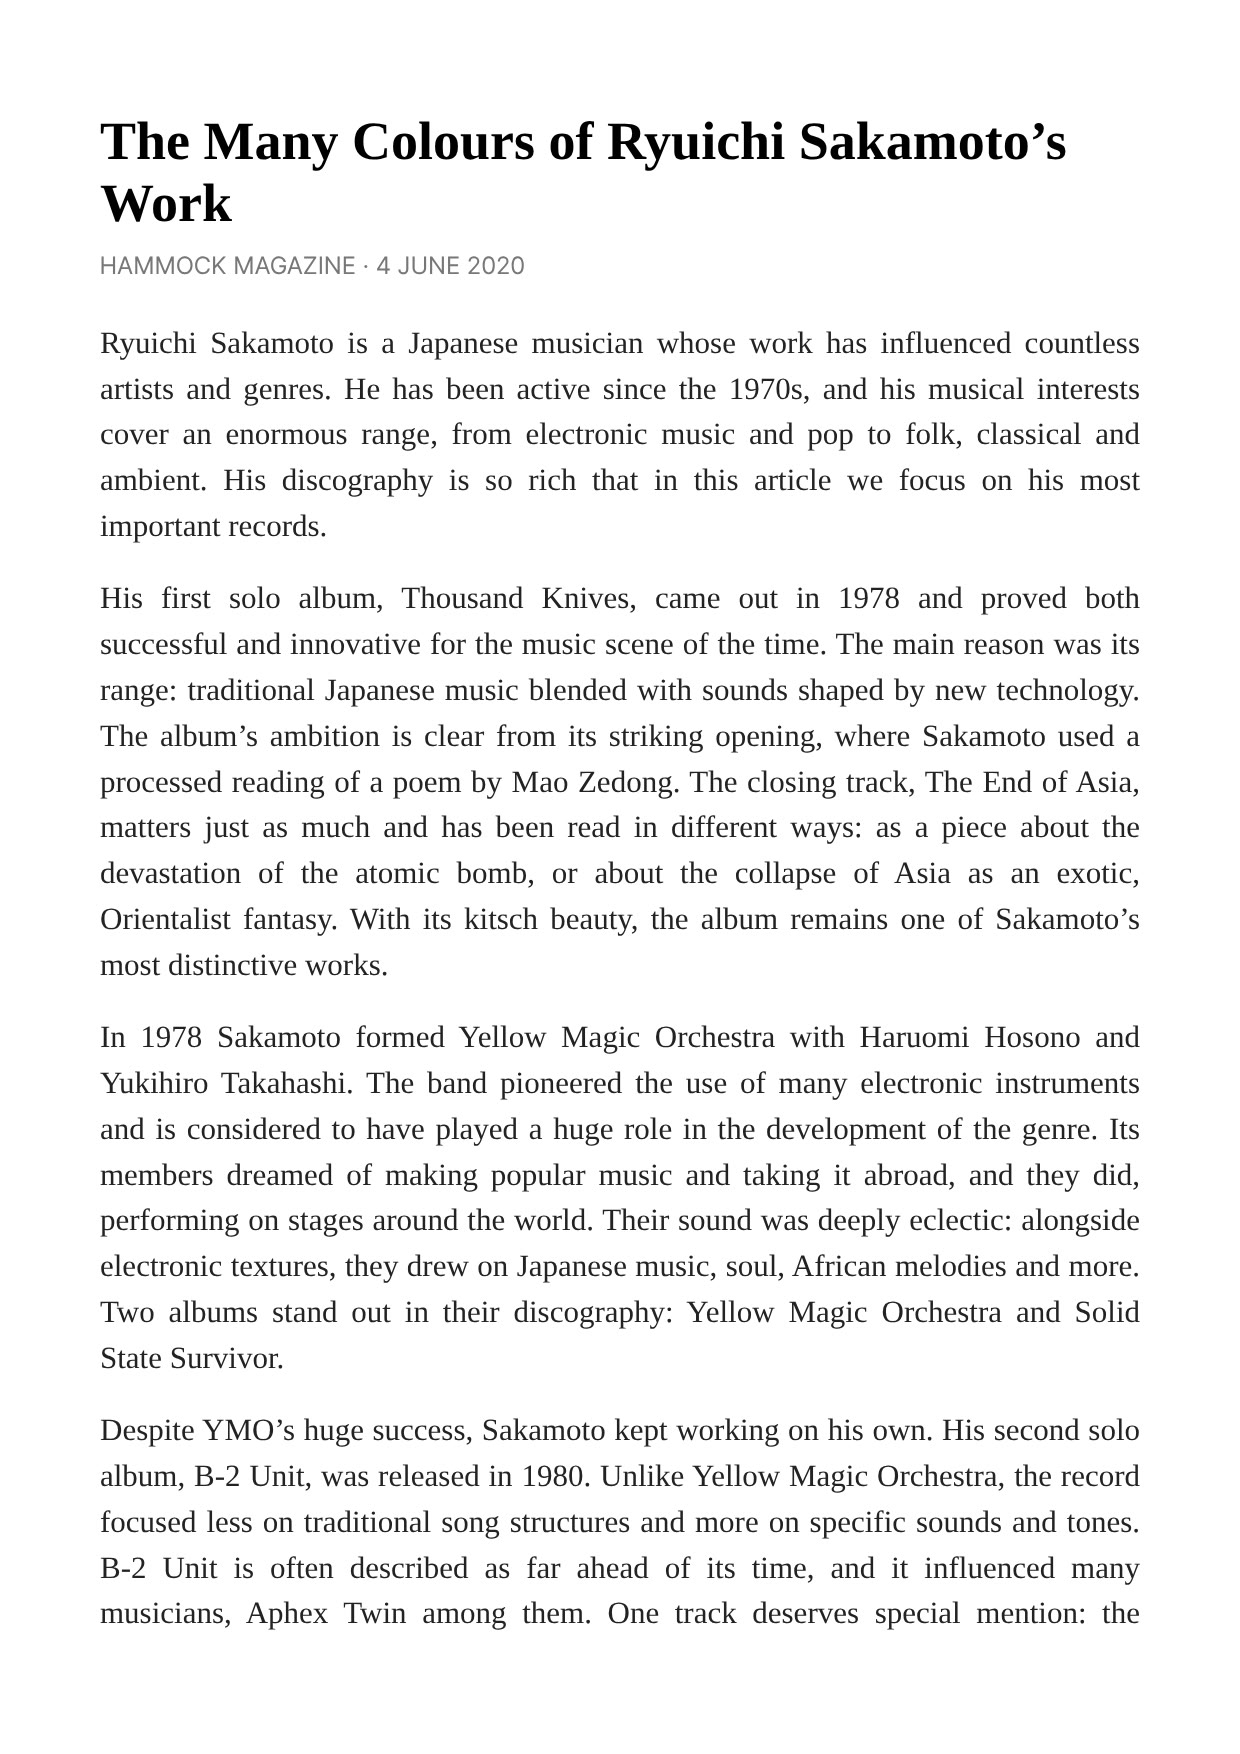
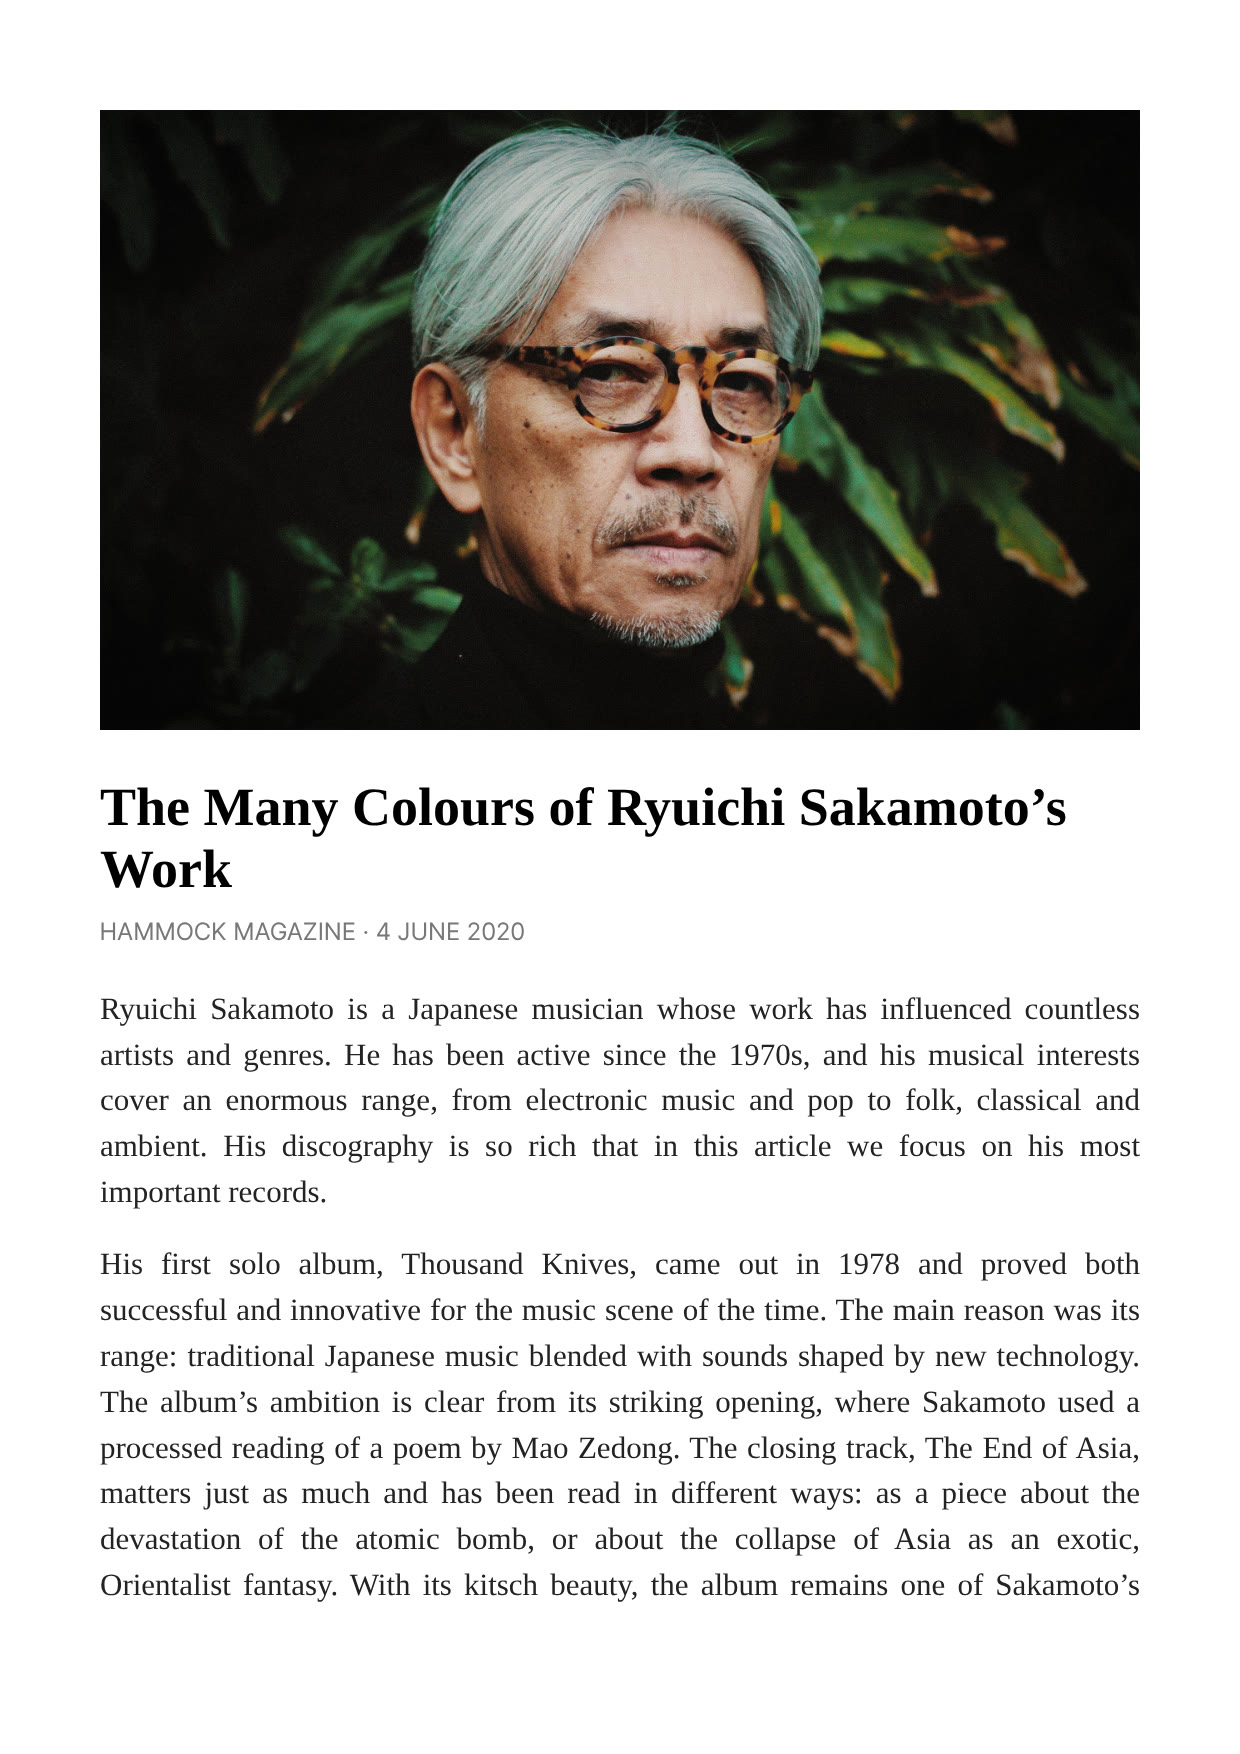
Sakamoto article: add photo to cover and first page
Claude-Session: https://claude.ai/code/session_01BHxjzkN2JnKCL3Q4RUhGs4

diff --git a/content.js b/content.js
@@ -56,7 +56,7 @@ window.SITE = {
     {"id": "barnaba-fornasetti", "h": "Interview with Barnaba Fornasetti", "cover": "images/mag/barnaba-fornasetti/cover.jpg", "pages": ["images/mag/barnaba-fornasetti/page-01.jpg", "images/mag/barnaba-fornasetti/page-02.jpg", "images/mag/barnaba-fornasetti/page-03.jpg"], "cat": "interviews"},
     {"tags":["music"],"id": "alva-noto", "h": "Interview with Alva Noto", "cover": "images/mag/alva-noto/cover.jpg", "pages": ["images/mag/alva-noto/page-01.jpg", "images/mag/alva-noto/page-02.jpg"], "cat": "interviews"},
     {"tags":["music"],"id": "king-krule", "h": "King Krule – The King of Underground Music", "cover": "images/mag/king-krule/cover.jpg?v=2", "pages": ["images/mag/king-krule/page-01.jpg?v=2", "images/mag/king-krule/page-02.jpg?v=2"], "cat": "music"},
-    {"tags":["music"],"id": "ryuichi-sakamoto", "h": "The Many Colours of Ryuichi Sakamoto’s Work", "cover": "images/mag/ryuichi-sakamoto/cover.jpg", "pages": ["images/mag/ryuichi-sakamoto/page-01.jpg", "images/mag/ryuichi-sakamoto/page-02.jpg", "images/mag/ryuichi-sakamoto/page-03.jpg"], "cat": "music"},
+    {"tags":["music"],"id": "ryuichi-sakamoto", "h": "The Many Colours of Ryuichi Sakamoto’s Work", "cover": "images/mag/ryuichi-sakamoto/cover.jpg?v=2", "pages": ["images/mag/ryuichi-sakamoto/page-01.jpg?v=2", "images/mag/ryuichi-sakamoto/page-02.jpg?v=2", "images/mag/ryuichi-sakamoto/page-03.jpg?v=2"], "cat": "music"},
     {"id": "cristobal-balenciaga", "h": "Cristóbal Balenciaga — Designer of the Future", "cover": "images/mag/cristobal-balenciaga/cover.jpg", "pages": ["images/mag/cristobal-balenciaga/page-01.jpg", "images/mag/cristobal-balenciaga/page-02.jpg"], "cat": "fashion"},
     {"id": "raf-simons", "h": "The 8 Best Collections from Raf Simons’s Career", "cover": "images/mag/raf-simons/cover.jpg", "pages": ["images/mag/raf-simons/page-01.jpg", "images/mag/raf-simons/page-02.jpg", "images/mag/raf-simons/page-03.jpg"], "cat": "fashion"},
     {"id": "john-galliano", "h": "John Galliano’s Metamorphosis and His Great Return to Fashion", "cover": "images/mag/john-galliano/cover.jpg", "pages": ["images/mag/john-galliano/page-01.jpg", "images/mag/john-galliano/page-02.jpg", "images/mag/john-galliano/page-03.jpg"], "cat": "fashion"},
